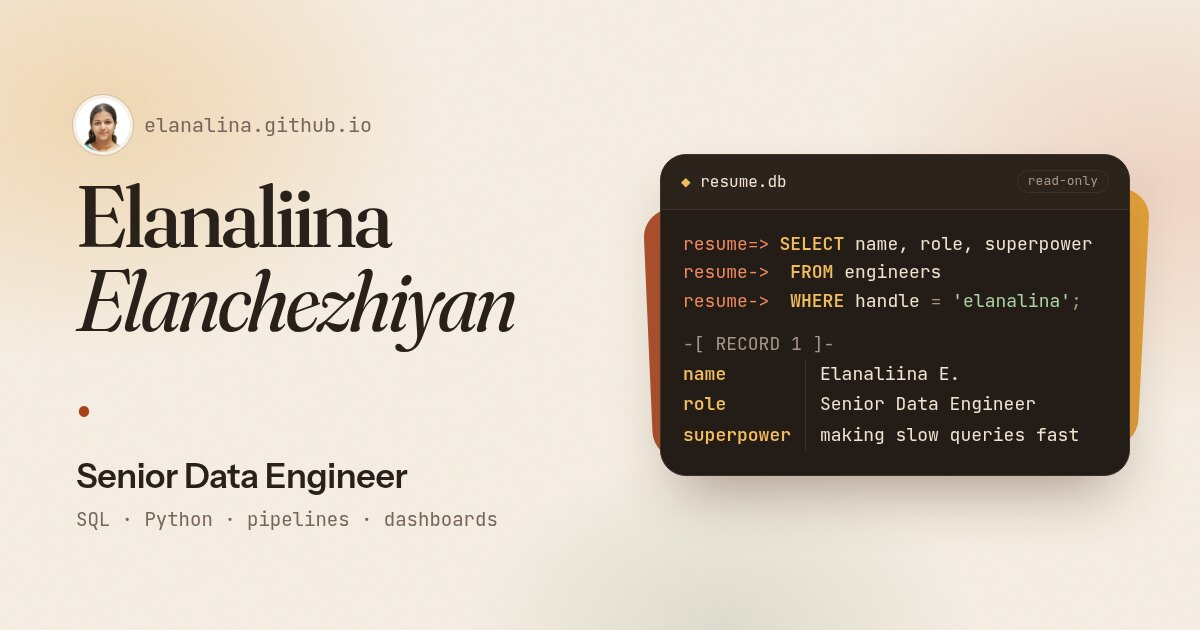
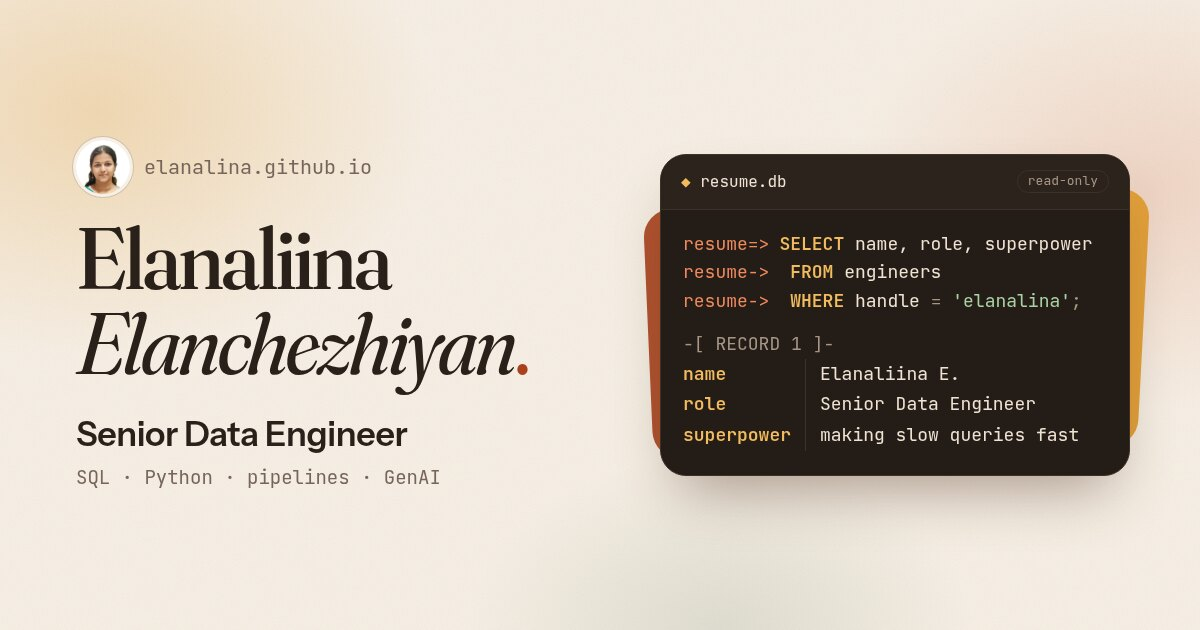
Add AI chatbot and AI chart insights to current project
- Case study 01 and current role: AI chatbot for questions about the
  data/dashboard, and AI chart insights from a reusable prompt template.
- New Generative AI toolkit row, ai_features console table and chip.
- Hero/about copy and social card mention AI-powered dashboards.
- Fix stray period in the social preview image.

diff --git a/index.html b/index.html
@@ -4,7 +4,7 @@
   <meta charset="utf-8">
   <meta name="viewport" content="width=device-width, initial-scale=1, viewport-fit=cover">
   <title>Elanaliina Elanchezhiyan — Senior Data Engineer</title>
-  <meta name="description" content="Senior data engineer building SQL &amp; Python ETL pipelines, large data migrations and dashboards teams can trust. 70% faster ETL, 100M+ records migrated with 100% integrity.">
+  <meta name="description" content="Senior data engineer building SQL &amp; Python ETL pipelines, large data migrations and AI-powered dashboards teams can trust. 70% faster ETL, 100M+ records migrated with 100% integrity.">
   <meta name="author" content="Elanaliina Elanchezhiyan">
   <link rel="canonical" href="https://elanalina.github.io/">
   <meta name="color-scheme" content="light dark">
@@ -17,14 +17,14 @@
   <meta property="og:site_name" content="Elanaliina Elanchezhiyan">
   <meta property="og:url" content="https://elanalina.github.io/">
   <meta property="og:title" content="Elanaliina Elanchezhiyan — Senior Data Engineer">
-  <meta property="og:description" content="I turn messy, multi-source data into fast pipelines and dashboards teams can trust. Come query my résumé in SQL.">
+  <meta property="og:description" content="I turn messy, multi-source data into fast pipelines and AI-powered dashboards teams can trust. Come query my résumé in SQL.">
   <meta property="og:image" content="https://elanalina.github.io/assets/img/og-image.jpg">
   <meta property="og:image:width" content="1200">
   <meta property="og:image:height" content="630">
   <meta property="og:image:alt" content="Elanaliina Elanchezhiyan, Senior Data Engineer, next to a SQL console querying a résumé">
   <meta name="twitter:card" content="summary_large_image">
   <meta name="twitter:title" content="Elanaliina Elanchezhiyan — Senior Data Engineer">
-  <meta name="twitter:description" content="I turn messy, multi-source data into fast pipelines and dashboards teams can trust. Come query my résumé in SQL.">
+  <meta name="twitter:description" content="I turn messy, multi-source data into fast pipelines and AI-powered dashboards teams can trust. Come query my résumé in SQL.">
   <meta name="twitter:image" content="https://elanalina.github.io/assets/img/og-image.jpg">
 
   <link rel="icon" href="assets/img/favicon-48.png" type="image/png" sizes="48x48">
@@ -65,7 +65,7 @@
       { "@type": "CollegeOrUniversity", "name": "SASTRA Deemed University" },
       { "@type": "CollegeOrUniversity", "name": "Alagappa University" }
     ],
-    "knowsAbout": ["Data engineering", "SQL", "Python", "ETL", "PostgreSQL", "BigQuery", "Power BI", "Data quality", "Machine learning", "Generative AI"],
+    "knowsAbout": ["Data engineering", "SQL", "Python", "ETL", "PostgreSQL", "BigQuery", "Power BI", "Data quality", "Machine learning", "Generative AI", "Prompt engineering", "AI chatbots"],
     "sameAs": ["https://www.linkedin.com/in/ela-naliina-lakshmi/", "https://github.com/elanalina"]
   }
   </script>
@@ -126,7 +126,7 @@
             <span class="hero__last">Elanchezhiyan<span class="accent-dot">.</span></span>
           </h1>
           <p class="hero__lede reveal" style="--d: .16s">
-            A senior data engineer who turns messy, multi-source data into fast pipelines and dashboards that teams can
+            A senior data engineer who turns messy, multi-source data into fast pipelines and AI-powered dashboards that teams can
             <span class="squiggle">trust<svg viewBox="0 0 100 12" preserveAspectRatio="none" aria-hidden="true" focusable="false"><path pathLength="1" d="M2 8.5 C 14 3, 24 3, 36 7.5 S 60 11.5, 72 6.5 S 92 2.5, 98 6"/></svg></span>.
           </p>
           <p class="hero__meta reveal" style="--d: .22s">
@@ -180,7 +180,7 @@
             <button class="chip" type="button" data-query="SELECT * FROM skills WHERE category = 'Databases';">skills</button>
             <button class="chip" type="button" data-query="SELECT title, company, start_date FROM experience ORDER BY start_date DESC;">experience</button>
             <button class="chip" type="button" data-query="SELECT metric, value FROM impact WHERE value > 50;">impact</button>
-            <button class="chip" type="button" data-query="SELECT degree, school FROM education;">education</button>
+            <button class="chip" type="button" data-query="SELECT * FROM ai_features;">ai features</button>
             <button class="chip" type="button" data-query="\dt">\dt</button>
           </div>
         </div>
@@ -232,8 +232,8 @@
           <h2 class="section-title reveal" id="about-title">I make data <em>dependable</em>.</h2>
           <div class="prose reveal">
             <p>I'm a data engineer who cares about the parts of data work everything else depends on: clean schemas, well-tested transformations, and queries that finish in minutes, not hours.</p>
-            <p>Since 2021 I've been with <strong>Accenture</strong>, building analytics for some of the world's largest companies: a MAANG technology company, a Fortune Global 100 PC &amp; printing company and a global heavy-equipment manufacturer. Day to day that means SQL and Python ETL, APIs, large data migrations, automated data-quality checks and dashboards people actually use.</p>
-            <p>I studied Computer Science &amp; Engineering at SASTRA, added an MBA along the way, and lately I've been going deeper into machine learning and generative AI.</p>
+            <p>Since 2021 I've been with <strong>Accenture</strong>, building analytics for some of the world's largest companies: a MAANG technology company, a Fortune Global 100 PC &amp; printing company and a global heavy-equipment manufacturer. Day to day that means SQL and Python ETL, APIs, large data migrations, automated data-quality checks and dashboards people actually use. Lately that includes generative AI: a chatbot that answers questions about the data, and AI-written chart insights.</p>
+            <p>I studied Computer Science &amp; Engineering at SASTRA, added an MBA along the way, and I keep going deeper into machine learning and generative AI.</p>
           </div>
 
           <div class="toolkit reveal">
@@ -258,6 +258,10 @@
               <div class="toolkit__row">
                 <dt>Visualization</dt>
                 <dd><ul class="chips"><li>Power BI</li><li>Tableau</li><li>Internal BI platforms</li></ul></dd>
+              </div>
+              <div class="toolkit__row">
+                <dt>Generative AI</dt>
+                <dd><ul class="chips"><li>AI chatbots</li><li>Prompt engineering</li><li>Reusable prompt templates</li><li>AI chart insights</li></ul></dd>
               </div>
               <div class="toolkit__row">
                 <dt>Quality &amp; delivery</dt>
@@ -303,10 +307,11 @@
             <ul class="job__points">
               <li>Build APIs and SQL/Python ETL workflows that integrate data from multiple sources, and migrate records between systems.</li>
               <li>Design SQL tables, automate refresh workflows and develop dashboards in internal visualization tools.</li>
+              <li>Integrated an <span class="hl">AI chatbot</span> into dashboards so people can ask questions about the data, and added <span class="hl">AI chart insights</span> powered by a reusable prompt template.</li>
               <li>Automate functional and regression tests with Selenium in Robot Framework, alongside manual QA.</li>
               <li>Validate large datasets with SQL, Python and Excel, resolving <span class="hl">95%+ of discrepancies</span>, and have reviewed and optimized <span class="hl">50+ scripts</span> for performance.</li>
             </ul>
-            <p class="job__stack">SQL · Python · APIs · Selenium · Robot Framework</p>
+            <p class="job__stack">SQL · Python · APIs · Generative AI · Selenium · Robot Framework</p>
           </li>
 
           <li class="job reveal">
@@ -355,22 +360,24 @@
               <p class="case__client">MAANG technology company</p>
               <h3 class="case__title" id="case-1-title">Global Data Center Supply Chain Analytics</h3>
               <p class="case__role">Role · Analytics consultant</p>
-              <p class="case__summary">Analytics for global data center operations: SQL models with complex metric logic, automated refreshes and interactive dashboards that replaced spreadsheet-based reporting.</p>
+              <p class="case__summary">Analytics for global data center operations: SQL models with complex metric logic, automated refreshes and AI-assisted dashboards that replaced spreadsheet-based reporting.</p>
               <ul class="case__outcomes">
                 <li>Designed SQL scripts to build tables and complex metric calculations, including <span class="hl">cumulative metrics via array functions</span>.</li>
                 <li>Automated data refresh workflows on <span class="hl">week-on-week snapshotted</span> data.</li>
                 <li>Delivered interactive dashboards on internal visualization platforms for <span class="hl">real-time KPI tracking</span> and strategic decisions.</li>
+                <li>Integrated an <span class="hl">AI chatbot</span> into the dashboard, so people can ask questions about the data and the dashboard itself in plain language.</li>
+                <li>Added <span class="hl">AI chart insights</span>: wrote a reusable prompt template that works across multiple charts and explains what each one shows.</li>
               </ul>
               <ul class="tags" aria-label="Skills used">
-                <li>SQL</li><li>Array functions</li><li>Data modeling</li><li>Automation</li><li>Dashboards</li>
+                <li>SQL</li><li>Array functions</li><li>Data modeling</li><li>Dashboards</li><li>Generative AI</li><li>Prompt engineering</li>
               </ul>
             </div>
             <figure class="case__flow">
               <ol class="flow" aria-label="Data flow">
                 <li class="flow__node flow__node--source" style="--i: 0"><span class="flow__stage">source</span><span class="flow__label">Data center operations data</span></li>
-                <li class="flow__node flow__node--transform" style="--i: 1"><span class="flow__stage">transform</span><span class="flow__label">SQL models + cumulative metrics</span></li>
-                <li class="flow__node flow__node--store" style="--i: 2"><span class="flow__stage">store</span><span class="flow__label">Week-on-week snapshots, auto-refreshed</span></li>
-                <li class="flow__node flow__node--serve" style="--i: 3"><span class="flow__stage">serve</span><span class="flow__label">Interactive KPI dashboards</span></li>
+                <li class="flow__node flow__node--transform" style="--i: 1"><span class="flow__stage">transform</span><span class="flow__label">SQL models, cumulative metrics, weekly snapshots</span></li>
+                <li class="flow__node flow__node--serve" style="--i: 2"><span class="flow__stage">serve</span><span class="flow__label">Interactive KPI dashboards</span></li>
+                <li class="flow__node flow__node--ai" style="--i: 3"><span class="flow__stage">ai layer</span><span class="flow__label">AI chatbot + AI chart insights</span></li>
               </ol>
               <figcaption>How the data flows</figcaption>
             </figure>

diff --git a/assets/js/data.js b/assets/js/data.js
@@ -26,7 +26,7 @@ window.RESUME_DB = {
     description: 'Selected case studies (clients kept confidential)',
     columns: ['name', 'client', 'role', 'highlight'],
     rows: [
-      ['Global Data Center Supply Chain Analytics', 'MAANG technology company', 'Analytics consultant', 'spreadsheets -> real-time KPI dashboards'],
+      ['Global Data Center Supply Chain Analytics', 'MAANG technology company', 'Analytics consultant', 'real-time KPI dashboards with an AI chatbot + AI insights'],
       ['Enterprise Analytics: Functional & QA', 'Global heavy-equipment manufacturer', 'Functional & QA consultant', 'defects resolved across 15 analytics screens'],
       ['Enterprise Data Integration & Migration', 'Fortune Global 100 PC & printing company', 'Data engineer', '100M+ records migrated, ETL 70% faster'],
     ],
@@ -63,6 +63,10 @@ window.RESUME_DB = {
       ['Pipelines', 'Web data extraction'],
       ['Visualization', 'Power BI'],
       ['Visualization', 'Tableau'],
+      ['Generative AI', 'AI chatbots'],
+      ['Generative AI', 'Prompt engineering'],
+      ['Generative AI', 'Reusable prompt templates'],
+      ['Generative AI', 'AI chart insights'],
       ['Quality', 'Data quality & integrity'],
       ['Quality', 'Data governance'],
       ['Quality', 'Selenium'],
@@ -83,6 +87,15 @@ window.RESUME_DB = {
       ['Power BI dashboards', '10+', 'built to client needs'],
       ['Analytics screens QA-ed', '15', 'defects fixed for release readiness'],
       ['Data sources integrated', '5+', 'Adobe, Google & Baidu Analytics, PostgreSQL, SQL Server, Excel'],
+    ],
+  },
+
+  ai_features: {
+    description: 'Generative AI I shipped inside dashboards',
+    columns: ['feature', 'what_it_does', 'how'],
+    rows: [
+      ['AI chatbot', 'answers questions about the data and the dashboard', 'integrated into the dashboard'],
+      ['AI chart insights', 'explains what each chart shows', 'one reusable prompt template across many charts'],
     ],
   },
 
@@ -107,4 +120,4 @@ window.RESUME_DB = {
 };
 
 /* Friendly aliases, so `SELECT * FROM me;` just works. */
-window.RESUME_DB_ALIASES = { me: 'engineers', whoami: 'engineers', jobs: 'experience', work: 'experience', skill: 'skills' };
+window.RESUME_DB_ALIASES = { me: 'engineers', whoami: 'engineers', jobs: 'experience', work: 'experience', skill: 'skills', ai: 'ai_features' };

diff --git a/assets/css/styles.css b/assets/css/styles.css
@@ -37,6 +37,7 @@
   --marigold: #E3A13B;
   --marigold-soft: #F6DFB4;
   --sage: #4A6B53;
+  --teal: #3D6E79;
   --on-accent: #FFF6EC;
   --glow-1: rgb(227 161 59 / .26);
   --glow-2: rgb(210 95 51 / .16);
@@ -83,6 +84,7 @@
   --marigold: #F2BC5E;
   --marigold-soft: #5A4220;
   --sage: #94BE9C;
+  --teal: #8CC4CE;
   --on-accent: #1B1410;
   --glow-1: rgb(242 188 94 / .12);
   --glow-2: rgb(240 138 93 / .10);
@@ -1069,6 +1071,7 @@ html:not(.js) .squiggle path { stroke-dashoffset: 0; animation: none; }
 .flow__node--transform { --stage: var(--marigold); }
 .flow__node--store { --stage: var(--accent); }
 .flow__node--serve { --stage: var(--ink); }
+.flow__node--ai { --stage: var(--teal); }
 .flow__stage {
   display: flex;
   align-items: center;

diff --git a/assets/js/main.js b/assets/js/main.js
@@ -362,6 +362,7 @@
         ['SELECT title, start_date FROM experience ORDER BY start_date;', 'sort'],
         ['SELECT metric, value FROM impact WHERE value > 50;', 'compare numbers'],
         ['SELECT COUNT(*) FROM skills;', 'aggregate'],
+        ['SELECT feature, what_it_does FROM ai_features;', 'the GenAI bits'],
         ['SELECT * FROM contact;', 'say hello'],
         ['\\x', 'toggle expanded display'],
         ['clear', 'clear the screen'],
